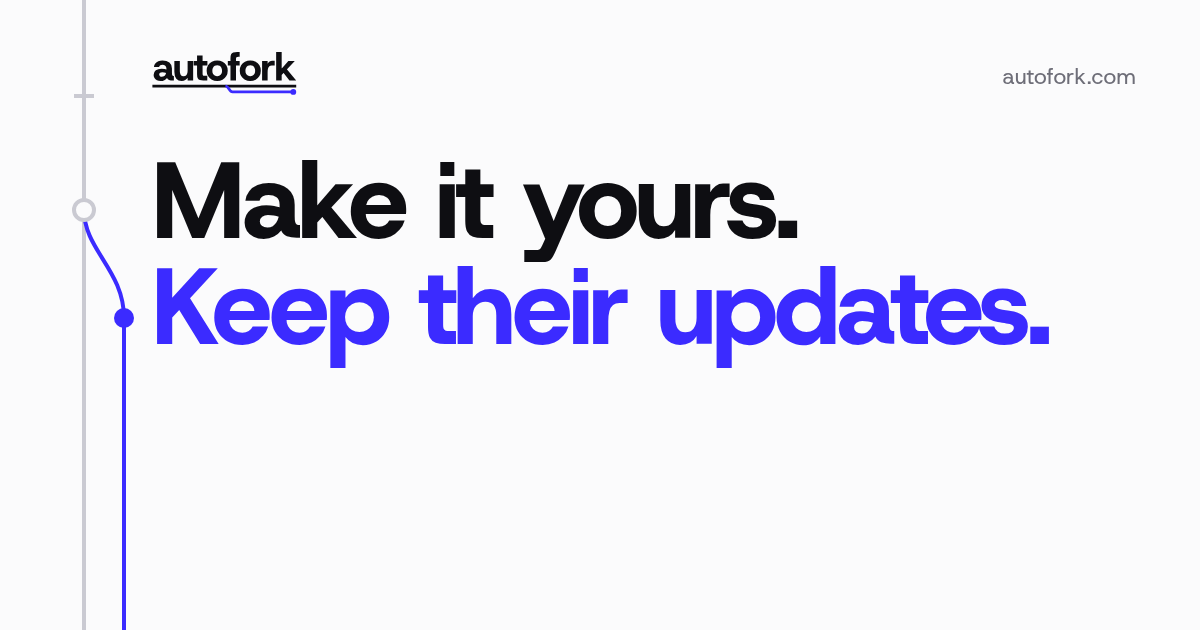
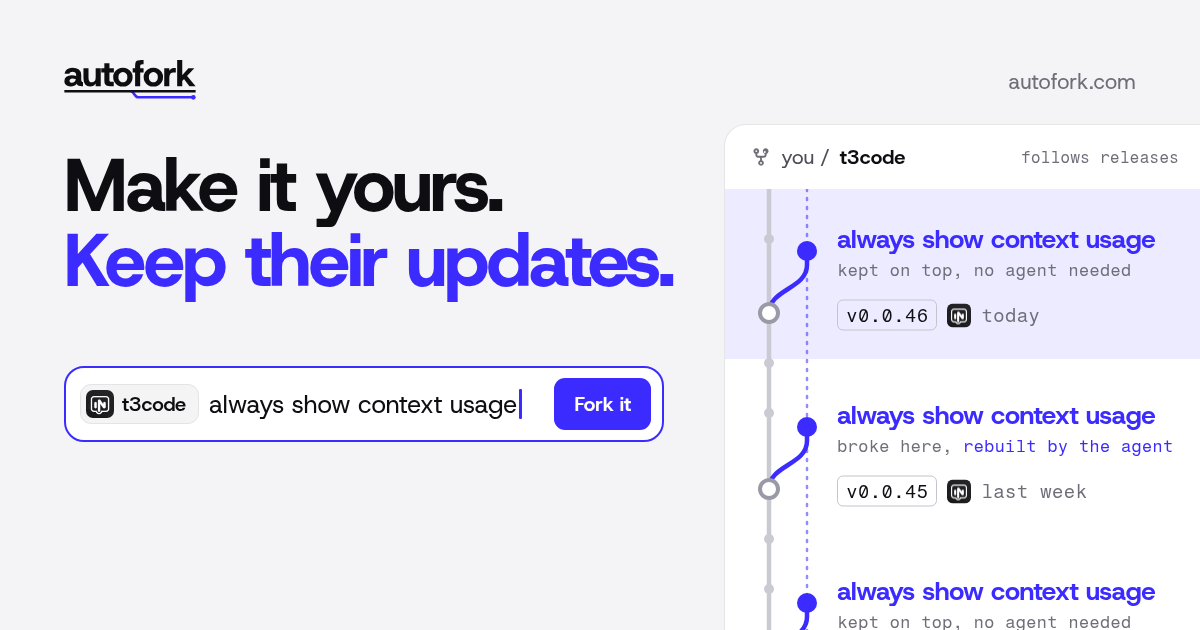
Site: OG image built from the product: the composer with a t3code badge, and the fork's graph with each release landing under your change
Claude-Session: https://claude.ai/code/session_01PbHZCixQscA9Z3pYK6fxLz

diff --git a/site/og.html b/site/og.html
@@ -5,29 +5,88 @@
 <style>
 @font-face { font-family: "Host Grotesk"; src: url("/fonts/host-grotesk.woff2") format("woff2"); font-weight: 300 800; }
 @font-face { font-family: "Fragment Mono"; src: url("/fonts/fragment-mono.woff2") format("woff2"); }
+:root { --bg: #F4F4F6; --panel: #FFFFFF; --ink: #0E0E12; --ink-2: #4D4D57; --ink-3: #6E6E78; --hair: rgb(14 14 18 / .1); --trunk: #CACAD2; --rel: #9A9AA6; --you: #3B2BFF; --you-soft: #EDEBFF; --badge: #F4F4F5; --badge-line: #E4E4E7; }
 html, body { margin: 0; }
-body { width: 1200px; height: 630px; background: #FBFBFC; color: #0E0E12; font-family: "Host Grotesk", sans-serif; position: relative; overflow: hidden; }
-.wm { position: absolute; left: 152px; top: 52px; height: 44px; }
-svg.g { position: absolute; inset: 0; }
-.trunk { stroke: #CACAD2; stroke-width: 4; fill: none; }
-.yours { stroke: #3B2BFF; stroke-width: 4; fill: none; }
-.ring { fill: #FBFBFC; stroke: #CACAD2; stroke-width: 4; }
-.dot { fill: #3B2BFF; }
-h1 { position: absolute; left: 152px; top: 148px; margin: 0; font-size: 108px; line-height: .98; letter-spacing: -0.028em; font-weight: 800; }
-h1 span { display: block; } h1 .you { color: #3B2BFF; }
-.url { position: absolute; right: 64px; top: 62px; font: 400 22px "Host Grotesk", sans-serif; color: #6E6E78; }
+body { width: 1200px; height: 630px; background: var(--bg); color: var(--ink); font-family: "Host Grotesk", sans-serif; position: relative; overflow: hidden; -webkit-font-smoothing: antialiased; }
+
+.wm { position: absolute; left: 64px; top: 60px; height: 40px; }
+h1 { position: absolute; left: 64px; top: 148px; margin: 0; font-size: 74px; line-height: 1.02; letter-spacing: -0.032em; font-weight: 800; }
+h1 span { display: block; } h1 .you { color: var(--you); }
+
+.ask { position: absolute; left: 64px; top: 366px; width: 600px; height: 76px; box-sizing: border-box; display: flex; align-items: center; justify-content: space-between; padding: 0 11px 0 14px; background: var(--panel); border: 2px solid var(--you); border-radius: 20px; }
+.ask p { margin: 0; font-size: 25px; letter-spacing: -0.012em; white-space: nowrap; display: flex; align-items: center; }
+.badge { display: inline-flex; align-items: center; gap: 8px; height: 38px; padding: 0 12px 0 5px; margin-right: 10px; background: var(--badge); border: 1.5px solid var(--badge-line); border-radius: 11px; font-weight: 600; font-size: 20px; }
+.badge img { width: 28px; height: 28px; border-radius: 7px; display: block; }
+.caret { width: 3px; height: 30px; margin-left: 2px; background: var(--you); border-radius: 1px; }
+.go { height: 52px; padding: 0 20px; border-radius: 11px; background: var(--you); color: #fff; font-size: 20px; font-weight: 700; display: grid; place-items: center; }
+
+.card { position: absolute; left: 724px; top: 124px; width: 600px; height: 560px; background: var(--panel); border: 1.5px solid var(--hair); border-radius: 22px; overflow: hidden; }
+.head { display: flex; align-items: center; justify-content: space-between; height: 64px; padding: 0 26px; border-bottom: 1.5px solid var(--hair); font-size: 20px; color: var(--ink-2); }
+.head .name { display: flex; align-items: center; gap: 10px; }
+.head .name b { color: var(--ink); font-weight: 700; }
+.head .name svg { width: 20px; height: 20px; fill: var(--ink-3); }
+.head small { font: 400 16px "Fragment Mono", monospace; color: var(--ink-3); margin-right: 120px; }
+
+svg.g { position: absolute; left: 0; top: 64px; }
+.trunk { stroke: var(--trunk); stroke-width: 4.5; fill: none; }
+.yours { stroke: var(--you); stroke-width: 4.5; fill: none; }
+.intent { stroke: var(--you); stroke-width: 2.5; stroke-dasharray: 2 7; stroke-linecap: round; fill: none; opacity: .55; }
+.commit { fill: var(--trunk); }
+.rel { fill: var(--panel); stroke: var(--rel); stroke-width: 4; }
+.node { fill: var(--you); }
+
+.row { position: absolute; left: 112px; transform: translateY(-50%); white-space: nowrap; display: flex; flex-direction: column; gap: 4px; }
+.row b { font-size: 26px; font-weight: 700; letter-spacing: -0.015em; color: var(--you); }
+.row small { font: 400 17px "Fragment Mono", monospace; color: var(--ink-3); }
+.row.rel { flex-direction: row; gap: 10px; font-size: 19px; }
+.row.rel img { width: 24px; height: 24px; border-radius: 6px; }
+.band { position: absolute; left: 0; right: 0; background: var(--you-soft); }
+.row .agent { color: var(--you); }
+.row.rel { font: 400 19px "Fragment Mono", monospace; color: var(--ink-3); align-items: center; }
+.tag { padding: 3px 8px; border: 1.5px solid #C4C4CC; border-radius: 6px; color: var(--ink); }
+
+.url { position: absolute; right: 64px; top: 68px; font: 400 21px "Host Grotesk", sans-serif; color: var(--ink-3); }
 </style>
 </head>
 <body>
-<svg class="g" viewBox="0 0 1200 630">
-  <path class="trunk" d="M84 0V630"/>
-  <path class="yours" d="M84 210C84 250 124 270 124 318V630"/>
-  <circle class="ring" cx="84" cy="210" r="10"/>
-  <circle class="dot" cx="124" cy="318" r="10"/>
-  <line x1="74" x2="94" y1="96" y2="96" stroke="#CACAD2" stroke-width="4"/>
-</svg>
 <img class="wm" src="../brand/logo/autofork.svg" alt="">
 <span class="url">autofork.com</span>
 <h1><span>Make it yours.</span><span class="you">Keep their updates.</span></h1>
+
+<div class="ask">
+  <p><span class="badge"><img src="/brand/logo/vendor/t3code.png" alt="">t3code</span>always show context usage<span class="caret"></span></p>
+  <span class="go">Fork it</span>
+</div>
+
+<div class="card">
+  <div class="head">
+    <span class="name"><svg viewBox="0 0 16 16"><path d="M5 3.25a.75.75 0 1 1-1.5 0 .75.75 0 0 1 1.5 0Zm0 2.122a2.25 2.25 0 1 0-1.5 0v.878A2.25 2.25 0 0 0 5.75 8.5h1.5v2.128a2.251 2.251 0 1 0 1.5 0V8.5h1.5a2.25 2.25 0 0 0 2.25-2.25v-.878a2.25 2.25 0 1 0-1.5 0v.878a.75.75 0 0 1-.75.75h-4.5A.75.75 0 0 1 5 6.25v-.878Zm3.75 7.378a.75.75 0 1 1-1.5 0 .75.75 0 0 1 1.5 0Zm3-8.75a.75.75 0 1 1-1.5 0 .75.75 0 0 1 1.5 0Z"/></svg>you / <b>t3code</b></span>
+    <small>follows releases</small>
+  </div>
+  <div class="band" style="top:64px;height:170px"></div>
+  <svg class="g" width="600" height="500" viewBox="0 0 600 500"><g id="graph"></g></svg>
+  <div id="rows"></div>
+</div>
+
+<script>
+  const A = 44, B = 82, head = 64, lift = 62
+  const releases = [
+    { y: 124, tag: "v0.0.46", when: "today", note: "kept on top, no agent needed" },
+    { y: 300, tag: "v0.0.45", when: "last week", note: "broke here, <span class=agent>rebuilt by the agent</span>" },
+    { y: 476, tag: "v0.0.44", when: "2 weeks ago", note: "kept on top, no agent needed" },
+  ]
+  const peel = (x1, y1, x2, y2) => `M${x1} ${y1}C${x1} ${(y1 + y2) / 2} ${x2} ${(y1 + y2) / 2} ${x2} ${y2}`
+  let g = `<path class="intent" d="M${B} 0V500"/><path class="trunk" d="M${A} 0V500"/>`
+  for (const r of releases) {
+    const y = r.y - lift
+    g += `<path class="yours" d="${peel(A, r.y, B, y + 14)}V${y}"/>`
+    for (const d of [-74, 50, 100]) if (r.y + d > 0 && (d > 0 || r === releases[0])) g += `<circle class="commit" cx="${A}" cy="${r.y + d}" r="5"/>`
+  }
+  for (const r of releases) g += `<circle class="rel" cx="${A}" cy="${r.y}" r="9"/><circle class="node" cx="${B}" cy="${r.y - lift}" r="10"/>`
+  document.querySelector("#graph").innerHTML = g
+  document.querySelector("#rows").innerHTML = releases.map((r) => `
+    <div class="row" style="top:${head + r.y - lift}px"><b>always show context usage</b><small>${r.note}</small></div>
+    <div class="row rel" style="top:${head + r.y + 2}px"><span class="tag">${r.tag}</span><img src="/brand/logo/vendor/t3code.png" alt="">${r.when}</div>`).join("")
+</script>
 </body>
 </html>
